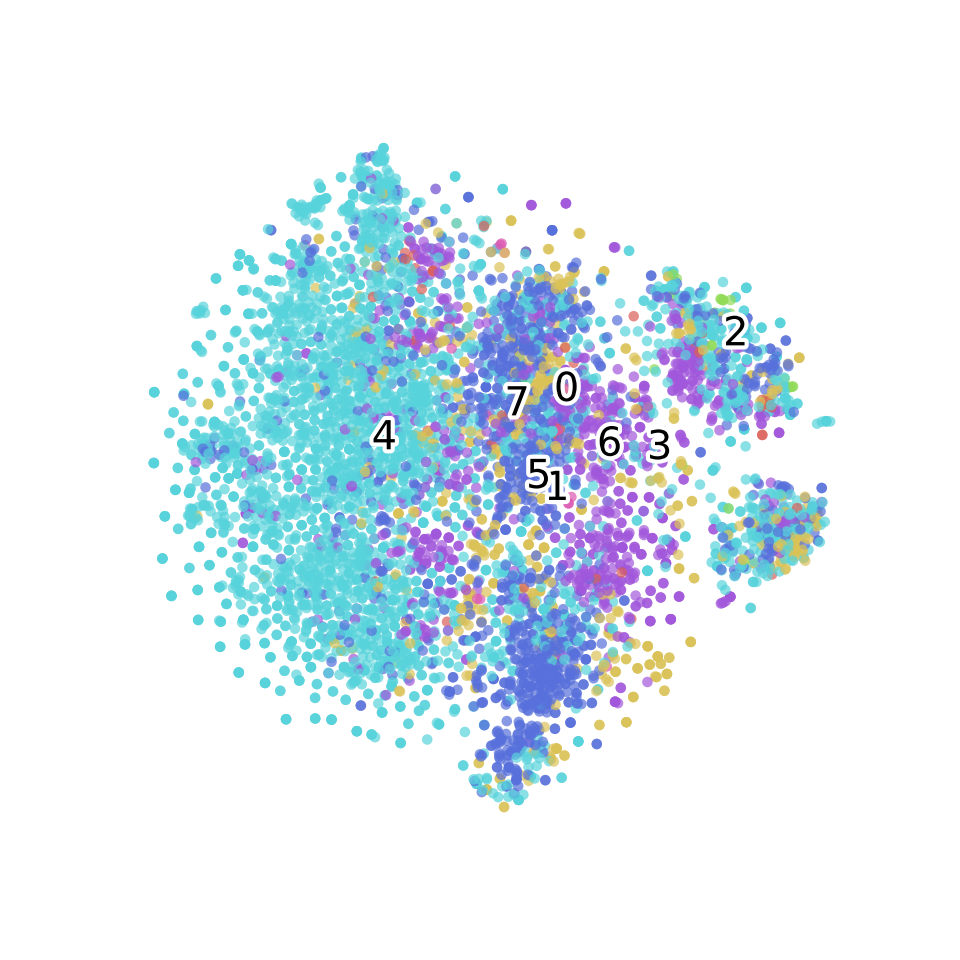
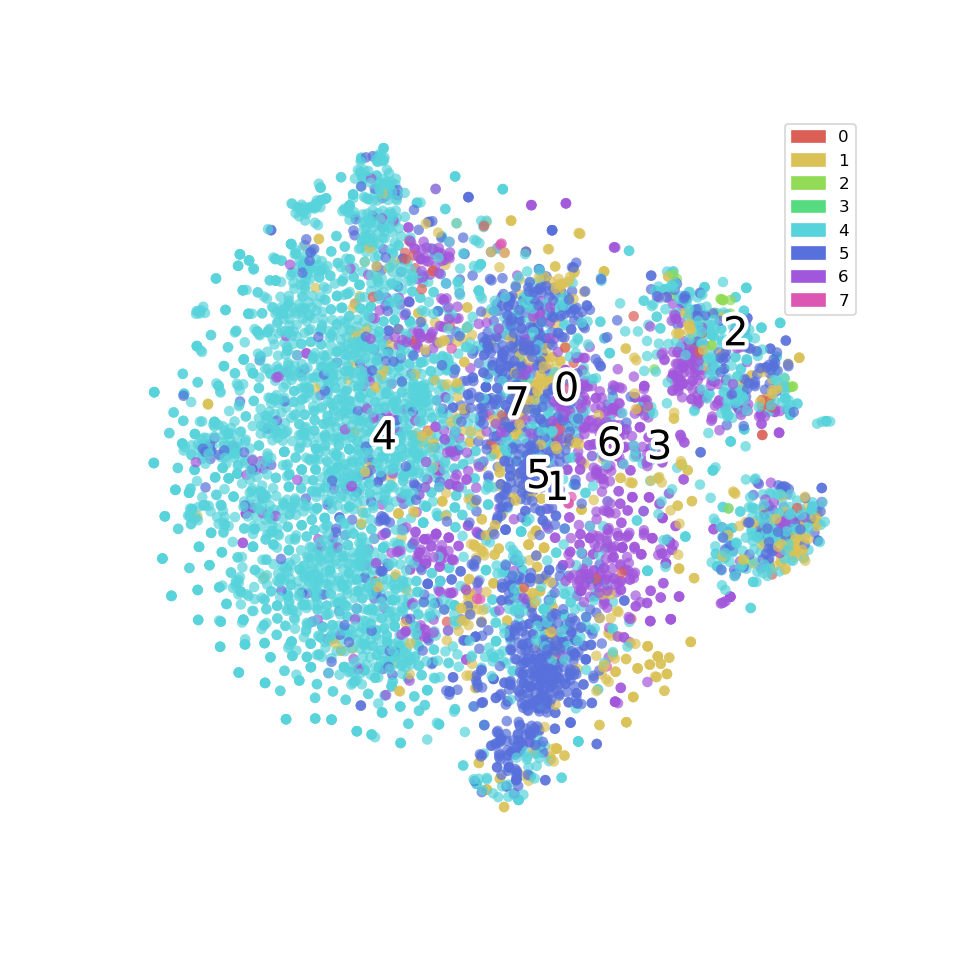
add legend to the plot

Changed region(s): [[0.8125, 0.125, 0.9062, 0.3438]]

diff --git a/visualization/tsne.py b/visualization/tsne.py
@@ -5,6 +5,7 @@ from sklearn.manifold import TSNE
 from matplotlib import pyplot as plt 
 from matplotlib import cm
 import matplotlib.patheffects as PathEffects
+import matplotlib.patches as mpatches
 import seaborn as sns
 import pandas as pd
 
@@ -36,6 +37,9 @@ def scatter(x, label):
                     c=palette[label_idx], alpha=0.7)
     plt.xlim(-25, 25)
     plt.ylim(-25, 25)
+    
+    ls = [mpatches.Patch(color=palette[i],label=str(i)) for i in range(8)]
+    ax.legend(handles=ls)
     ax.axis('off')
     ax.axis('tight')
 
